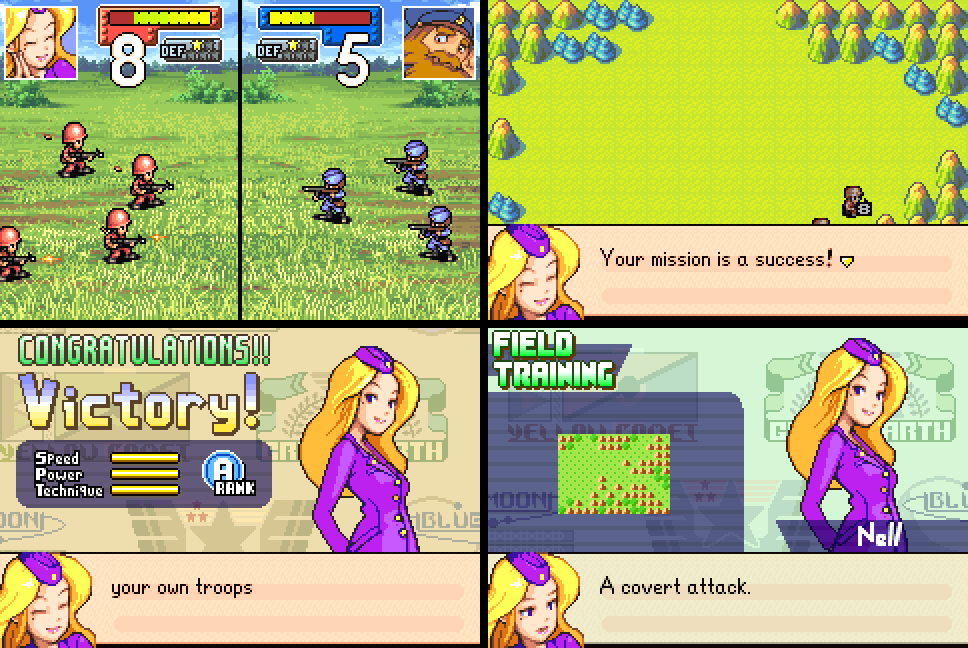
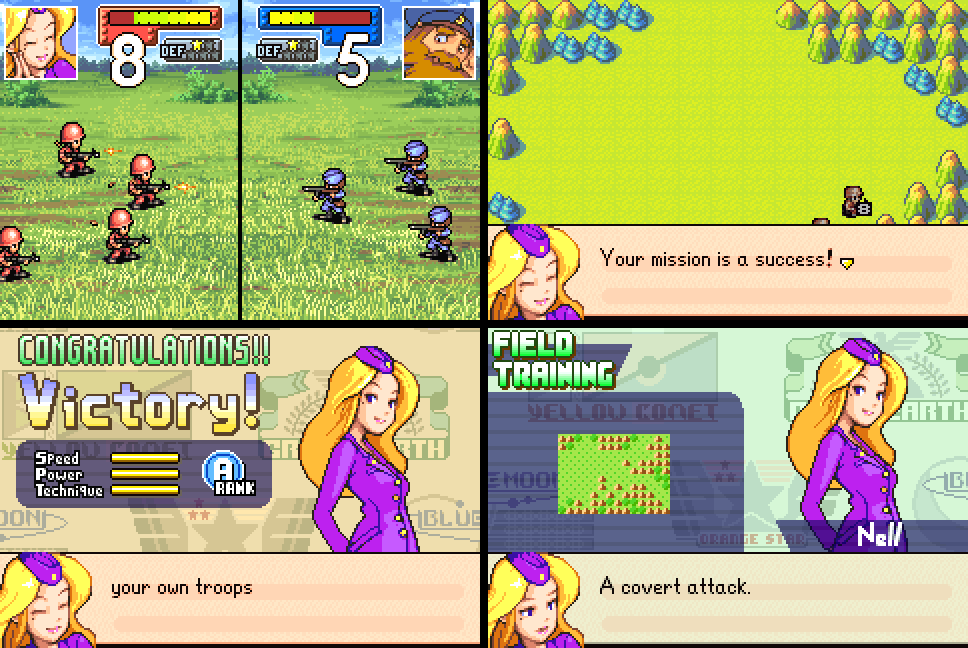
Pin gbarecomp after #21-#23: mGBA-style timing; keep the win script off a text-box edge

diff --git a/README.md b/README.md
@@ -26,7 +26,7 @@ briefing. There's no audio yet.
 | Field Training | Played to Victory over three days, results screen and save, in step with mGBA (`tools/field_training_win.txt`) |
 | Sound driver (m4a) | Runs (music state advances as on hardware); no audio output yet |
 | Graphics | Per-scanline rendering, priorities, alpha/brightness effects, affine BGs and sprites, windows; missing mosaic |
-| Conformance (lockstep validation) | 138/138 functions agree |
+| Conformance (lockstep validation) | 165/165 functions agree |
 
 An earlier version of this repo (March 2026) ran a hybrid: libmgba executed the
 CPU and recompiled functions were swapped in from its run loop. It reached the
@@ -105,7 +105,7 @@ toolkit's runtime flags ([docs/headless.md](https://github.com/sp00nznet/gbareco
 build\Release\AWRE.exe game\aw.gba --headless --frames 600 --screenshot f600.bmp
 build\Release\AWRE.exe game\aw.gba --record intro.mp4 --frames 3600
 build\Release\AWRE.exe game\aw.gba --headless --input tools\field_training.txt --frames 8000 --screenshot map.bmp
-build\Release\AWRE.exe game\aw.gba --headless --input tools\field_training_win.txt --frames 26300 --screenshot victory.bmp
+build\Release\AWRE.exe game\aw.gba --headless --input tools\field_training_win.txt --frames 26320 --screenshot victory.bmp
 ```
 
 Conformance (needs the ROM; prints a SKIP line without it):

diff --git a/CHANGELOG.md b/CHANGELOG.md
@@ -21,6 +21,14 @@ versions follow SemVer once the first one is tagged.
   (headless-only, gbarecomp#7), QA passes here and reports SKIP on the test VM.
 
 ### Changed
+- gbarecomp pinned at main after #21-#23: timing follows mGBA's cycle model
+  (#21), and flash takes time to program (#22). The build used to run 14
+  frames fast at boot and 44 ahead by the end of Field Training; now boot
+  matches mGBA to the frame and the mission stays within 4 frames.
+  `tools/field_training_win.txt` drops a press that landed as Victory's
+  text box opened (mGBA ate it, the build didn't) and shifts the rest 20
+  frames later. Conformance baseline `165 165`: more functions run in the
+  760-frame window.
 - gbarecomp pinned at main after #17-#19. The results screen fell into the
   wrong code after a block split (gbarecomp#17): bars drawn from garbage,
   then a hang in the RAM sprite builder. Its "Victory!", labels and rank

diff --git a/ROADMAP.md b/ROADMAP.md
@@ -8,10 +8,10 @@
   `entries.txt` and run the sound mixer natively.
 - **Audio**, once the toolkit has a mixer.
 - **Rendering**: mosaic, from the toolkit's PPU work.
-- **Frame timing**: cycle counts are approximate, so the build runs a frame
-  or two behind mGBA in places, and about 60 frames ahead after heavy code
-  such as the end of Field Training's last battle. Game state stays in step;
-  scripts with a press every 90 frames still line up.
+- **Frame timing**: the toolkit times code as mGBA does (gbarecomp#21,
+  #22). Boot matches mGBA to the frame and Field Training stays within 4
+  frames, but it isn't cycle-exact: script presses must stay clear of the
+  frames where a text box opens or finishes.
 - **CI**: build the toolkit and this repo's scripts on push; conformance
   reports SKIP there (no ROM).
 
